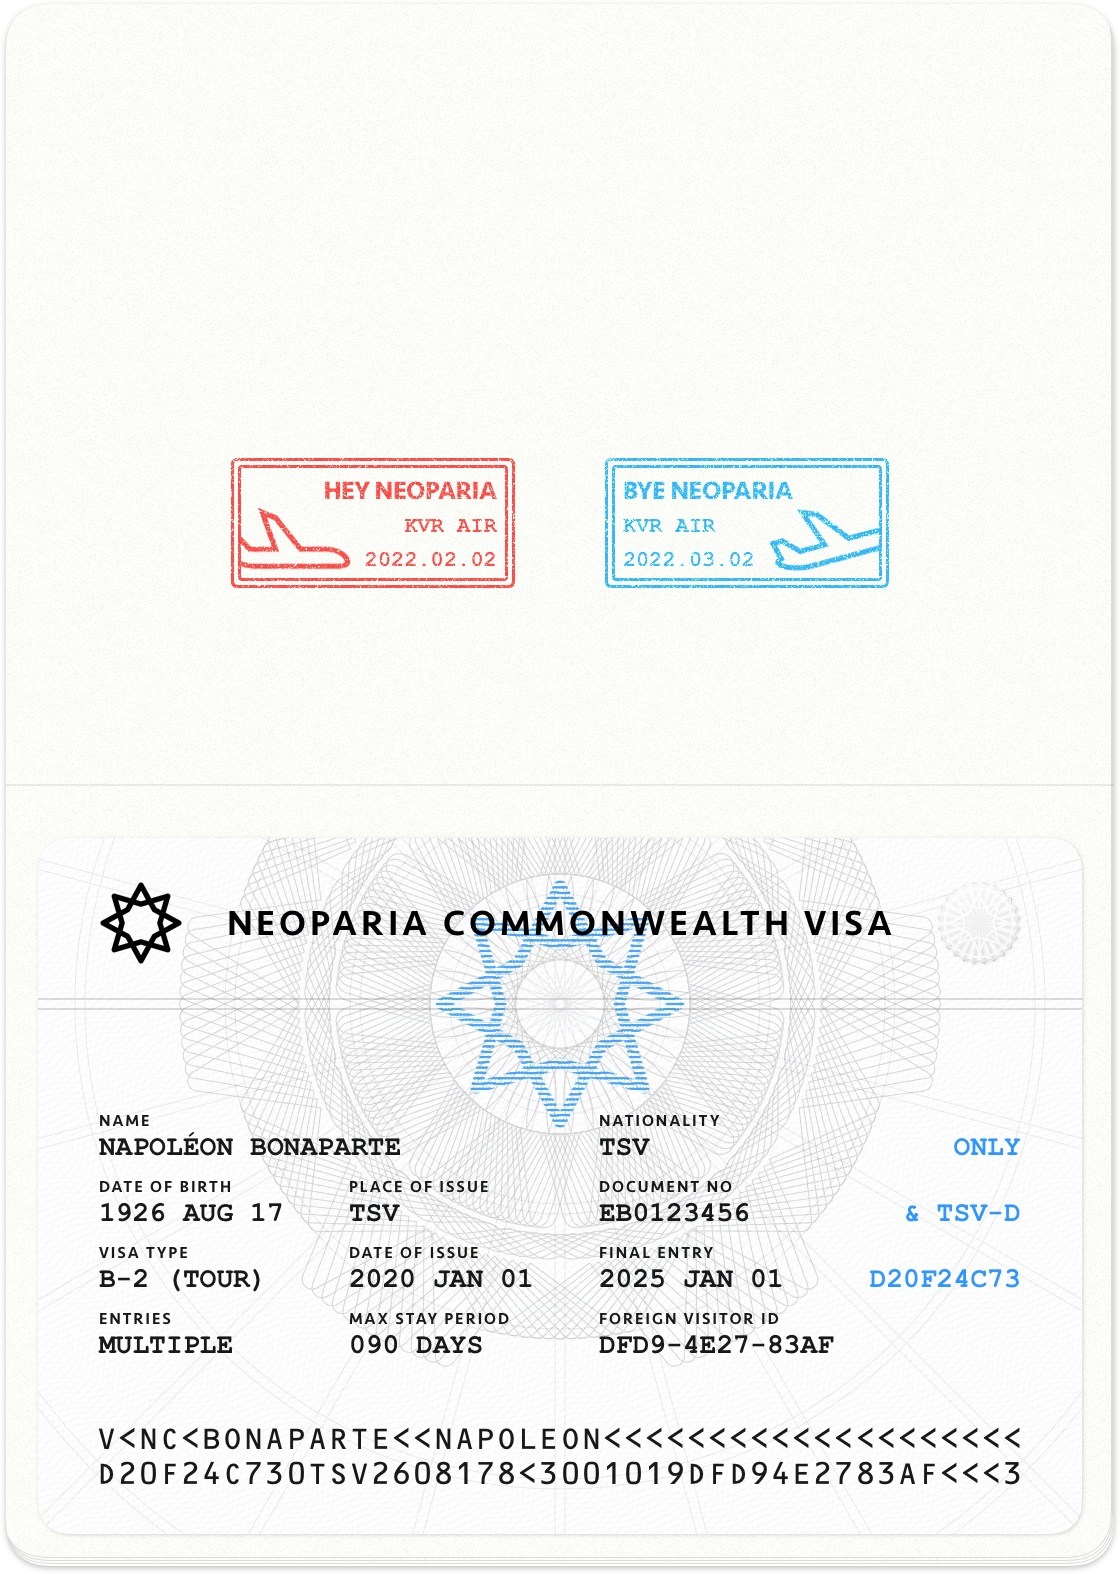
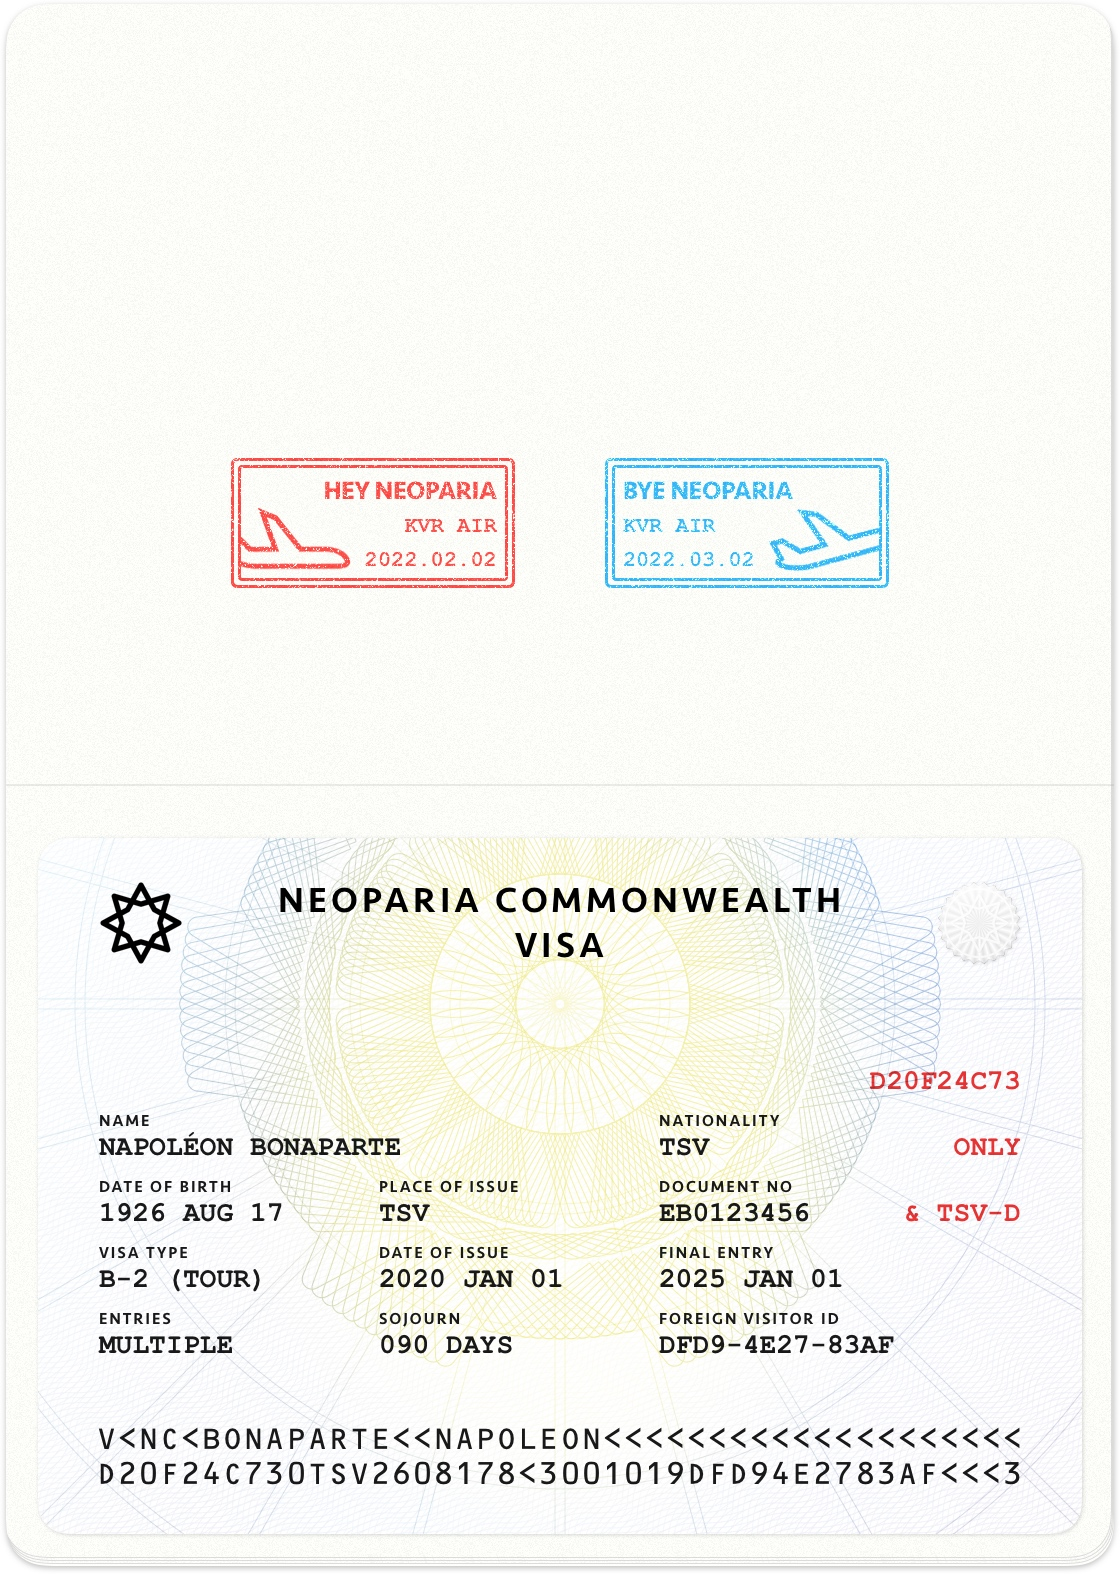
album 19: introducing group visa, residence permit, and colorized visa pattern

Changed region(s): [[0.1875, 0.5292, 0.875, 0.8717], [0.7812, 0.6226, 0.9062, 0.7783]]

diff --git a/album/db/19.html b/album/db/19.html
@@ -54,8 +54,15 @@
 
 <figure><img class="custom id3-l1" src="/album/img/0000201808210021.jpg"><figcaption>Neoparian visa with entry and exit stamps</figcaption></figure>
 <figure><img class="custom id3-l1" src="/album/img/0000201808210022.jpg"><figcaption>Neoparian visa with exit stamp on entry authorization sheet</figcaption></figure>
+<figure><img class="custom id3-l1" src="/album/img/0000201808210028.jpg"><figcaption>Neoparian Tourist Group Visa</figcaption></figure>
 <figure><img class="custom id3-l1" src="/album/img/0000201808210023.jpg"><figcaption>Neoparian visa on arrival with entry and exit stamps</figcaption></figure>
 <figure><img class="custom id1-l1" sty src="/album/img/0000201808210024.jpg"><figcaption>Emergency Entry Permit</figcaption></figure>
+
+<h3>Residence Permit</h3>
+
+<p>Foreign residents, who do not have Permanent Resident status, are eligible for this residence permit. Un residence permit is un replacement of un Neoparia visa in terms of proof of eligibility of admission in Neoparia Commonwealth. No sojourn limitation is applicable for un residence permit.</p>
+
+<figure><img class="custom id3-l1" src="/album/img/0000201808210029.jpg"><figcaption>Neoparian Tourist Group Visa</figcaption></figure>
 
 <h3>Special Entry Permit</h3>
 
